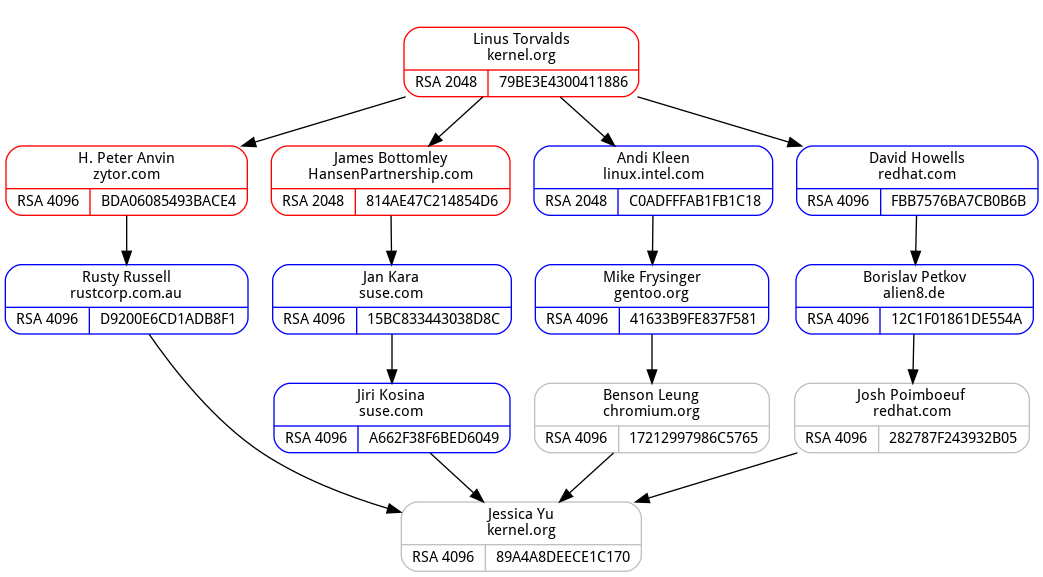
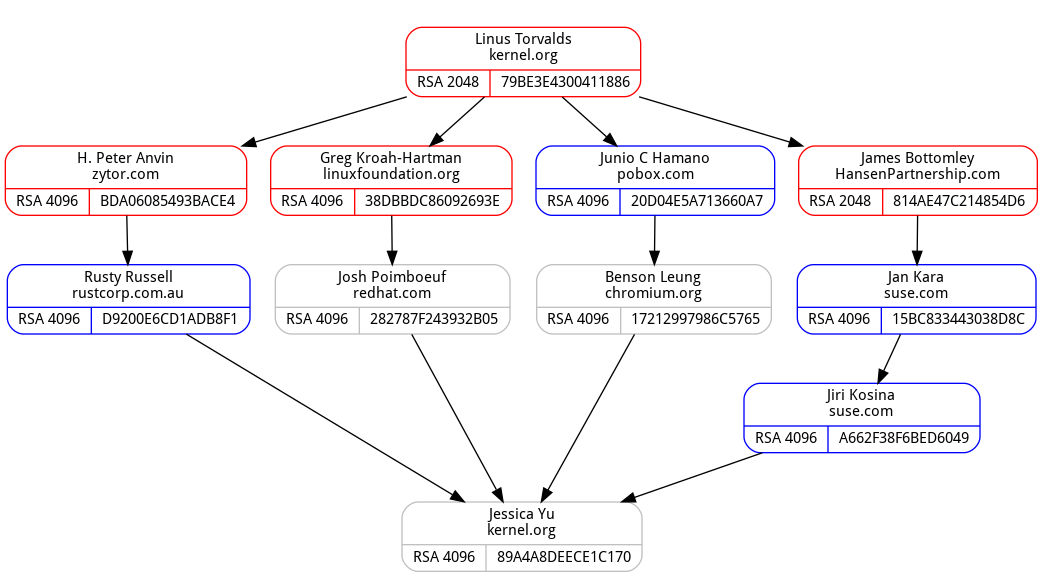
Add support for importing wotsap db
You can now download and import latest.wot, but be warned that the path
finding algorithm needs some serious optimization before it can easily
go through so many records. It's possible, but it takes a few minutes
on a fast system.

diff --git a/make-sqlitedb.py b/make-sqlitedb.py
@@ -21,11 +21,12 @@ from __future__ import (absolute_import,
                         unicode_literals)
 
 import os
+import sys
 import sqlite3
 import wotmate
 
 
-def populate_all_pubkeys(c, use_weak):
+def keyring_populate_all_pubkeys(c, use_weak):
     logger.info('Loading all valid pubkeys')
     keyid_rowid_map = {}
     for line in wotmate.gpg_run_command(['--list-public-keys'], ['pub:']):
@@ -50,7 +51,6 @@ def populate_all_pubkeys(c, use_weak):
         c.execute('INSERT INTO pub VALUES (?,?,?,?,?,?,?)', data)
         keyid_rowid_map[fields[4]] = c.lastrowid
 
-    dbconn.commit()
     logger.info('Loaded %s pubkeys' % len(keyid_rowid_map))
     return keyid_rowid_map
 
@@ -68,7 +68,7 @@ def store_uid(c, pubrowid, fields, is_primary):
     return c.lastrowid
 
 
-def populate_uid_sig_data(c, keyid_rowid_map):
+def keyring_populate_uid_sig_data(c, keyid_rowid_map):
     logger.info('Loading uid and signature data')
     sigquery = 'INSERT INTO sig VALUES (?,?,?,?,?)'
     # we use these to track which is the current pubkey/uid we're looking at
@@ -171,7 +171,95 @@ def populate_uid_sig_data(c, keyid_rowid_map):
         sigcount += len(uidsigs)
 
     logger.info('Loaded %s valid uids and %s valid sigs' % (uidcount, sigcount))
-    dbconn.commit()
+
+
+def wotsap_populate_keys(c, fh, size):
+    logger.info('Converting keys...')
+    readbytes = 0
+    keycount = 0
+    while readbytes < size:
+        key = fh.read(8)
+        readbytes += 8
+        # wotsap doesn't give us useful info about the key, just the ID
+        c.execute('''INSERT INTO pub (keyid) VALUES (?)''', (key.hex().upper(),))
+        keycount += 1
+    logger.info('Imported %s keys' % keycount)
+
+
+def wotsap_populate_names(c, fh, size):
+    logger.info('Converting names...')
+    readbytes = 0
+    p_rowid = 1
+    namecount = 0
+    while readbytes < size:
+        blob = b''
+        while True:
+            char = fh.read(1)
+            readbytes += 1
+            if char == b'\n':
+                break
+            blob += char
+            if readbytes >= size:
+                break
+        uiddata = blob.decode('utf8', 'ignore')
+        c.execute('''INSERT INTO uid (pubrowid, uiddata, is_primary) VALUES (?, ?, 1)''',
+                  (p_rowid, uiddata))
+        p_rowid += 1
+        namecount += 1
+
+    logger.info('Imported %s names' % namecount)
+
+
+def wotsap_populate_sigs(c, fh, size):
+    logger.info('Converting sigs...')
+    import struct
+    readbytes = 0
+    p_rowid = 1
+    totalsigs = 0
+    while readbytes < size:
+        sigcount = struct.unpack('!i', fh.read(4))[0]
+        readbytes += 4
+        cursig = 0
+        while cursig < sigcount:
+            # ignore the leading 4 bits for now, as we don't do
+            # anything with sig types for our purposes
+            _sig = 0x0FFFFFFF & struct.unpack('!i', fh.read(4))[0]
+
+            readbytes += 4
+            # in wotsap uidrow ends up being the same as pubrow
+            c.execute('''INSERT INTO sig (uidrowid, pubrowid) VALUES (?, ?)''',
+                      (p_rowid, _sig+1))
+
+            cursig += 1
+            totalsigs += 1
+
+        p_rowid += 1
+
+    logger.info('Imported %s signature relationships' % totalsigs)
+
+
+def convert_wotsap(c, wotsap):
+    import bz2
+    fh = bz2.open(wotsap)
+    magic = fh.read(8)
+    if magic != b'!<arch>\n':
+        logger.critical('%s does not appear to be in ar archive' % wotsap)
+        sys.exit(1)
+    while True:
+        fileident = fh.read(16).strip()
+        if not fileident:
+            break
+        fh.read(32)
+        size = int(fh.read(10).strip())
+        fh.read(2)
+        if fileident[:4] == b'keys':
+            wotsap_populate_keys(c, fh, size)
+        elif fileident[:4] == b'name':
+            wotsap_populate_names(c, fh, size)
+        elif fileident[:4] == b'sign':
+            wotsap_populate_sigs(c, fh, size)
+        else:
+            fh.read(size)
 
 
 if __name__ == '__main__':
@@ -194,6 +282,8 @@ if __name__ == '__main__':
     ap.add_argument('--gpgbin',
                     default='/usr/bin/gpg2',
                     help='Location of the gpg binary to use')
+    ap.add_argument('--wotsap', default=None,
+                    help='Convert a wotsap archive instead of using keyring')
     ap.add_argument('--gnupghome',
                     help='Set this as gnupghome instead of using the default')
 
@@ -215,7 +305,13 @@ if __name__ == '__main__':
     dbconn = sqlite3.connect(cmdargs.dbfile)
     cursor = dbconn.cursor()
     wotmate.init_sqlite_db(cursor)
-    kr_map = populate_all_pubkeys(cursor, cmdargs.use_weak)
-    populate_uid_sig_data(cursor, kr_map)
+
+    if not cmdargs.wotsap:
+        kr_map = keyring_populate_all_pubkeys(cursor, cmdargs.use_weak)
+        keyring_populate_uid_sig_data(cursor, kr_map)
+    else:
+        convert_wotsap(cursor, cmdargs.wotsap)
+
+    dbconn.commit()
     dbconn.close()
     logger.info('Wrote %s' % cmdargs.dbfile)

diff --git a/wotmate/__init__.py b/wotmate/__init__.py
@@ -47,6 +47,15 @@ logger = logging.getLogger(__name__)
 # convenience caching so we avoid redundant lookups
 _all_signed_by_cache = {}
 _all_sigs_cache = {}
+_all_uiddata_cache = {}
+_seenkeys = []
+
+
+def get_uiddata_by_pubrow(c, p_rowid):
+    if p_rowid not in _all_uiddata_cache:
+        c.execute('SELECT uiddata FROM uid WHERE pubrowid=?', (p_rowid,))
+        _all_uiddata_cache[p_rowid] = c.fetchone()[0]
+    return _all_uiddata_cache[p_rowid]
 
 
 def get_logger(quiet=False):
@@ -210,14 +219,14 @@ def make_graph_node(c, p_rowid, show_trust=False):
         show = ''
 
     if algo in ALGOS.keys():
-        algosize = '%s %s' % (ALGOS[algo], size)
+        keyline = '{%s %s|%s}' % (ALGOS[algo], size, kid)
     else:
-        algosize = 'ALGO? %s' % size
+        keyline = '{%s}' % kid
 
     if show_trust:
-        anode.set('label', '{{%s\n%s|{val: %s|tru: %s}}|{%s|%s}}' % (name, show, val, trust, algosize, kid))
+        anode.set('label', '{{%s\n%s|{val: %s|tru: %s}}|%s}' % (name, show, val, trust, keyline))
     else:
-        anode.set('label', '{%s\n%s|{%s|%s}}' % (name, show, algosize, kid))
+        anode.set('label', '{%s\n%s|%s}' % (name, show, keyline))
     return anode
 
 
@@ -244,7 +253,7 @@ def cull_redundant_paths(paths, maxpaths=None):
     return culled
 
 
-def get_shortest_path(c, t_p_rowid, b_p_rowid, depth, maxdepth, seenkeys, ignorekeys):
+def get_shortest_path(c, t_p_rowid, b_p_rowid, depth, maxdepth, ignorekeys):
     depth += 1
     sigs = get_all_signed_by(c, t_p_rowid)
 
@@ -257,23 +266,23 @@ def get_shortest_path(c, t_p_rowid, b_p_rowid, depth, maxdepth, seenkeys, ignore
         return None
 
     for (s_p_rowid,) in sigs:
-        if (depth, s_p_rowid) in seenkeys:
-            continue
-        if s_p_rowid in ignorekeys:
+        if s_p_rowid in ignorekeys or (depth, s_p_rowid) in _seenkeys:
             continue
 
-        subchain = get_shortest_path(c, s_p_rowid, b_p_rowid, depth, maxdepth, seenkeys, ignorekeys)
+        subchain = get_shortest_path(c, s_p_rowid, b_p_rowid, depth, maxdepth, ignorekeys)
         if subchain:
             if shortest is None or len(shortest) > len(subchain):
                 shortest = subchain
-                seenkeys.append((depth, s_p_rowid))
+                _seenkeys.append((depth, s_p_rowid))
                 # no need to go any deeper than current shortest
                 maxdepth = depth - 1 + len(shortest)
         else:
-            # if we returned with None, then this key is a dead-end at this depth
-            seenkeys.append((depth, s_p_rowid))
+            # if we returned with None, then this key is a dead-end at this and lower depths
+            for _d in range(depth, maxdepth):
+                _seenkeys.append((_d, s_p_rowid))
 
     if shortest is not None:
+        _seenkeys.append((depth, t_p_rowid))
         return [t_p_rowid] + shortest
 
     return None

diff --git a/graph-to-full.py b/graph-to-full.py
@@ -39,14 +39,21 @@ def get_key_paths(c, b_p_rowid, maxdepth=5):
 
     paths = []
     ignorekeys = [item for sublist in f_p_rowids for item in sublist]
+    lookedat = 0
 
     logger.info('Found %s fully trusted keys in the db' % len(f_p_rowids))
     for (f_p_rowid,) in f_p_rowids:
-        path = wotmate.get_shortest_path(c, f_p_rowid, b_p_rowid, 0, maxdepth-1, [], ignorekeys)
+        lookedat += 1
+        logger.info('Trying "%s" (%s/%s)' %
+                    (wotmate.get_uiddata_by_pubrow(c, f_p_rowid), lookedat, len(f_p_rowids)))
+
+        path = wotmate.get_shortest_path(c, f_p_rowid, b_p_rowid, 0, maxdepth-1, ignorekeys)
 
         if path:
-            logger.info('Found a path with %s members' % len(path))
+            logger.info('\- found a path with %s members' % len(path))
             paths.append(path)
+            # we want to find maximum paths, so we unset _seenkeys
+            wotmate._seenkeys = []
             ignorekeys += path
 
     if not paths:

diff --git a/graph-paths.py b/graph-paths.py
@@ -50,13 +50,17 @@ def get_key_paths(c, t_p_rowid, b_p_rowid, maxdepth=5, maxpaths=5):
         sys.exit(1)
 
     logger.info('Found %s keys signed by top key' % len(sigs))
+    lookedat = 0
 
     paths = []
     ignorekeys = [item for sublist in sigs for item in sublist]
     for (s_p_rowid,) in sigs:
-        path = wotmate.get_shortest_path(c, s_p_rowid, b_p_rowid, 0, maxdepth-1, [], ignorekeys)
+        lookedat += 1
+        logger.info('Trying "%s" (%s/%s)' %
+                    (wotmate.get_uiddata_by_pubrow(c, s_p_rowid), lookedat, len(sigs)))
+        path = wotmate.get_shortest_path(c, s_p_rowid, b_p_rowid, 0, maxdepth-1, ignorekeys)
         if path:
-            logger.info('Found a path with %s members' % len(path))
+            logger.info('\- found a path with %s members' % len(path))
             paths.append([t_p_rowid] + path)
             ignorekeys += path
 
